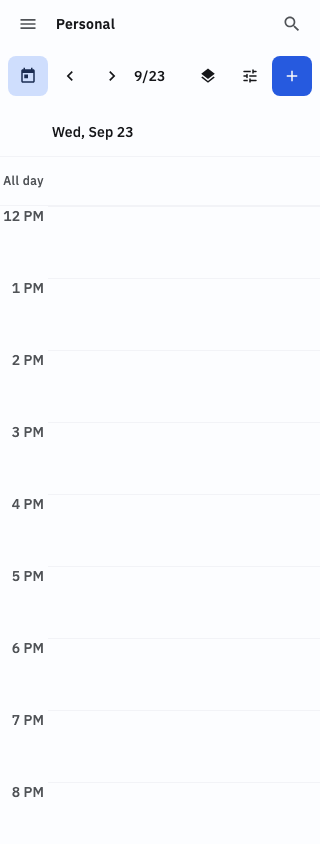
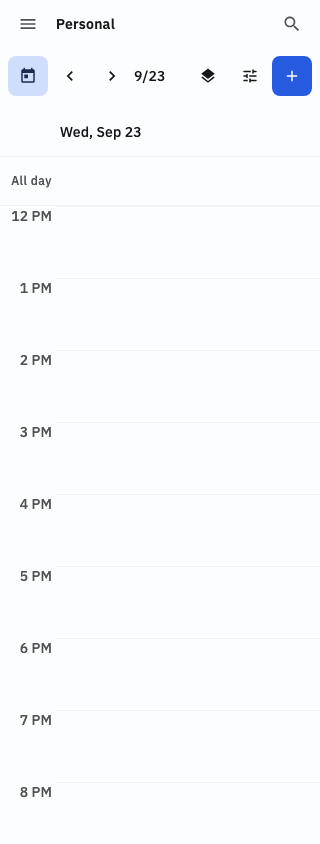
fix(web): Give phone calendar times room at the left edge
The compact hour gutter put the 12 PM text almost against the viewport
edge on narrow phones. The server-rendered first frame used a separate
width, so fixing only the measured grid would leave the opening frame
with the same defect.

Reserve 56 pixels for the compact axis in both render states. Keep the
existing 14-pixel type and one-day phone layout. Browser checks measure
the text itself and require eight pixels of clearance at phone widths.
The updated screenshots show the first frame and measured grid.

diff --git a/apps/web/e2e/calendar/calendar-responsive-lanes.spec.ts b/apps/web/e2e/calendar/calendar-responsive-lanes.spec.ts
@@ -44,6 +44,15 @@ test('shows the selected period in server HTML before hydration or item loading'
     await expect(schedule.locator('[data-schedule-hour]').first()).toHaveText(/AM|PM/);
     for (const width of [320, 390, 768]) {
       await initialPage.setViewportSize({ width, height: 844 });
+      const noonInset = await schedule.locator('[data-schedule-hour="12"]').evaluate((label) => {
+        const text = label.firstChild;
+        const section = label.closest('section');
+        if (!text || !section) return -1;
+        const range = document.createRange();
+        range.selectNodeContents(text);
+        return range.getBoundingClientRect().left - section.getBoundingClientRect().left;
+      });
+      expect(noonInset).toBeGreaterThanOrEqual(8);
       await initialPage.screenshot({
         path: testInfo.outputPath(`calendar-${String(width)}x844-first-paint.png`),
       });
@@ -53,7 +62,9 @@ test('shows the selected period in server HTML before hydration or item loading'
   }
 });
 
-test('keeps one date lane on phones and fills wider canvases progressively', async ({ page }) => {
+test('keeps one date lane on phones and fills wider canvases progressively', async ({
+  page,
+}, testInfo) => {
   const hydrationErrors: string[] = [];
   page.on('pageerror', (error) => {
     if (error.message.includes('Hydration failed')) hydrationErrors.push(error.message);
@@ -69,6 +80,19 @@ test('keeps one date lane on phones and fills wider canvases progressively', asy
     await page.setViewportSize({ width, height: 844 });
     await expect(schedule).toHaveAttribute('data-visible-lane-count', '1');
     await expect(page.getByRole('heading', { name: 'September 23, 2026' })).toBeVisible();
+    const noonInset = await schedule.locator('[data-schedule-label="720"]').evaluate((label) => {
+      const section = label.closest('section');
+      if (!section) return -1;
+      const range = document.createRange();
+      range.selectNodeContents(label);
+      return range.getBoundingClientRect().left - section.getBoundingClientRect().left;
+    });
+    expect(noonInset).toBeGreaterThanOrEqual(8);
+    if (width !== 430) {
+      await page.screenshot({
+        path: testInfo.outputPath(`calendar-${String(width)}x844-time-gutter.png`),
+      });
+    }
   }
 
   await page.setViewportSize({ width: 768, height: 844 });

diff --git a/apps/web/src/components/scheduling/scheduling-geometry.ts b/apps/web/src/components/scheduling/scheduling-geometry.ts
@@ -63,25 +63,22 @@ export interface ScheduleAxisPresentation {
 
 const FULL_AXIS: ScheduleAxisPresentation = { gutterWidth: 88, labelStyle: 'exact' };
 /**
- * 44px, not the ~32px a reference rail gets away with.
+ * 56px, not the ~32px a reference rail gets away with.
  *
  * @remarks
  * Those rails print their hours at 10–11px. Round 3 established a hard 14px floor for this surface
- * — zero rendered nodes at or below 12px — and `12 AM` at 14px measures ~38px plus its 4px inset.
- * Halving the gutter is worth having; buying the other 12px by regressing a shipped type guarantee
- * is not.
+ * — zero rendered nodes at or below 12px — and `12 AM` at 14px measures about 41px. The remaining
+ * space keeps the text clear of both the phone edge and the date lane without shrinking type.
  */
-const COMPACT_AXIS: ScheduleAxisPresentation = { gutterWidth: 44, labelStyle: 'hour' };
+const COMPACT_AXIS: ScheduleAxisPresentation = { gutterWidth: 56, labelStyle: 'hour' };
 
 /**
  * Choose the hour axis's width and label form from the measured canvas width.
  *
  * @remarks
- * An **unmeasured** viewport (`0`) resolves to the full axis rather than the compact one. Zero is
- * every canvas's first paint, and resolving it compact would make the wide calendar flash a 32px
- * gutter before its first measurement. The rail's own 88 → 32 correction lands in the same layout
- * pass as its lane width's 0 → real correction, which already reflows the surface, so it costs no
- * additional frame.
+ * An **unmeasured** viewport (`0`) resolves to the full axis for callers that need an axis state.
+ * The dedicated first frame uses the 56px compact gutter while width is unknown. Once measured,
+ * the grid chooses its gutter and date-lane count in the same layout pass.
  *
  * @param viewportWidth - Measured canvas width in CSS pixels, or `0` when unmeasured.
  * @returns The gutter width and label form for that width.

diff --git a/apps/web/src/components/scheduling/scheduling-canvas-measuring.tsx b/apps/web/src/components/scheduling/scheduling-canvas-measuring.tsx
@@ -46,14 +46,14 @@ export function SchedulingCanvasMeasuring({
       data-schedule-measuring=""
     >
       <div className="flex h-12 items-center">
-        <span className="w-12 shrink-0" />
+        <span className="w-14 shrink-0" />
         <span className="text-label-large text-on-surface px-1">
           {selectedLane?.label ?? 'Schedule'}
         </span>
       </div>
       <Separator className="opacity-30" />
       <div className="flex h-12 items-center">
-        <span className="text-label-medium text-on-surface-variant w-12 shrink-0 pr-1 text-right">
+        <span className="text-label-medium text-on-surface-variant w-14 shrink-0 pr-1 text-right">
           All day
         </span>
       </div>
@@ -64,7 +64,7 @@ export function SchedulingCanvasMeasuring({
           return (
             <div key={hour} className="flex" style={{ height: pixelsPerHour }}>
               <span
-                className="text-label-large text-on-surface-variant w-12 shrink-0 pr-1 text-right tabular-nums"
+                className="text-label-large text-on-surface-variant w-14 shrink-0 pr-1 text-right tabular-nums"
                 data-schedule-hour={hour}
               >
                 {hourLabels.get(hour)}

diff --git a/apps/web/src/components/scheduling/scheduling-time-grid.tsx b/apps/web/src/components/scheduling/scheduling-time-grid.tsx
@@ -139,8 +139,7 @@ export function SchedulingTimeGrid({
           .map((tick) => (
             <span
               key={tick.wallMinutes}
-              // `whitespace-nowrap` because the compact gutter is sized to the label's exact
-              // measured width: without it a 44px box wraps `12 AM` onto two lines.
+              // Keep hour labels on one line so the compact gutter reserves a stable inset.
               className={`text-on-surface-variant text-label-large absolute whitespace-nowrap tabular-nums ${tickLabelTranslation(tick.wallMinutes)} ${labelStyle === 'hour' ? 'right-1' : 'right-2'}`}
               data-schedule-label={tick.wallMinutes}
               style={{ top: tickTop(tick.wallMinutes, pixelsPerHour) }}

diff --git a/docs/design/audits/2026-09-23-calendar.md b/docs/design/audits/2026-09-23-calendar.md
@@ -17,6 +17,8 @@ The [screenshot set](screenshots/2026-09-23-calendar-craft/) includes 1440×900,
 
 The accessibility, responsive, theme, no-placeholder, and screenshot gates pass for the captured states. Browser tests confirm one date lane at 320, 390, and 430 px, two at 768 px, and seven at 1440 px. The Calendar browser suite passes all 19 cases, including the server-rendered initial period, cross-day editing, phone detail, and provider interactions.
 
+The later hour-gutter correction gives the compact 14 px time labels 56 px of space. The [320 px first frame](screenshots/2026-09-23-calendar-craft/calendar-320x844-first-paint.png) and [390 px first frame](screenshots/2026-09-23-calendar-craft/calendar-390x844-first-paint.png) show `12 PM` clear of the viewport edge. The [320 px measured grid](screenshots/2026-09-23-calendar-craft/calendar-320x844-time-gutter.png) and [390 px measured grid](screenshots/2026-09-23-calendar-craft/calendar-390x844-time-gutter.png) retain the inset after hydration. Browser assertions measure the rendered noon text, not just its containing box, and require at least 8 px of left clearance.
+
 The seven-day desktop view still shortens titles when overlaps reduce a date lane to about 154 px. It shows one readable card and a nearby disclosure instead of three illegible columns. The full title and exact end time remain available through focus and the event workspace.
 
 Verdict: **SHIP**. All eight dimensions score at least 3, and the five hard gates pass for the tested states.
